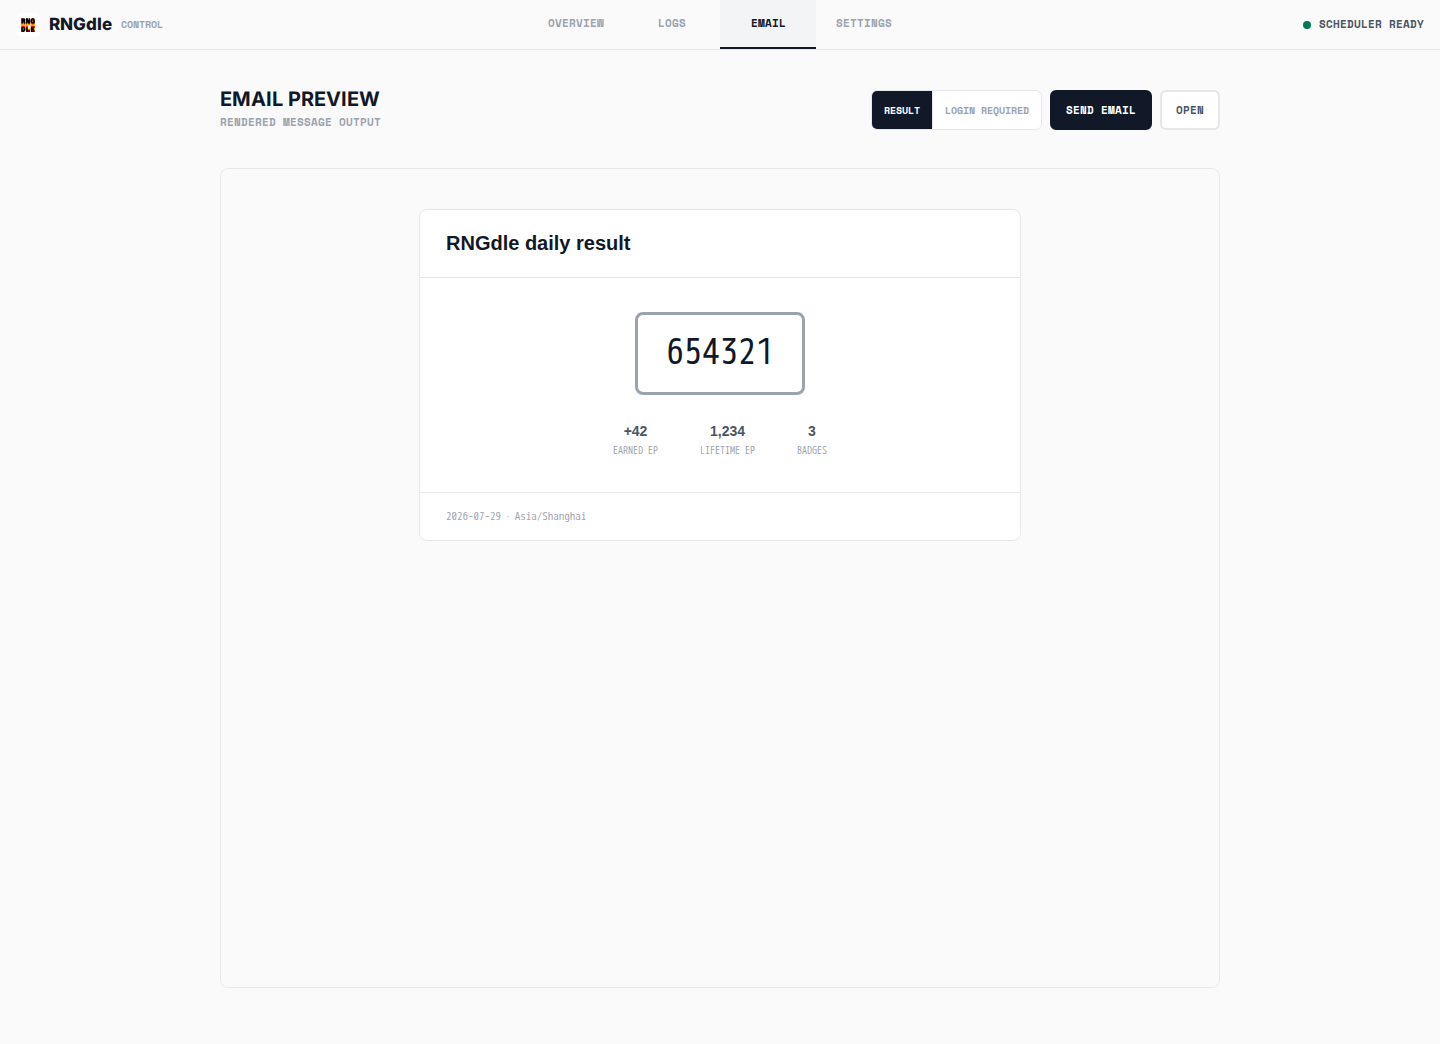
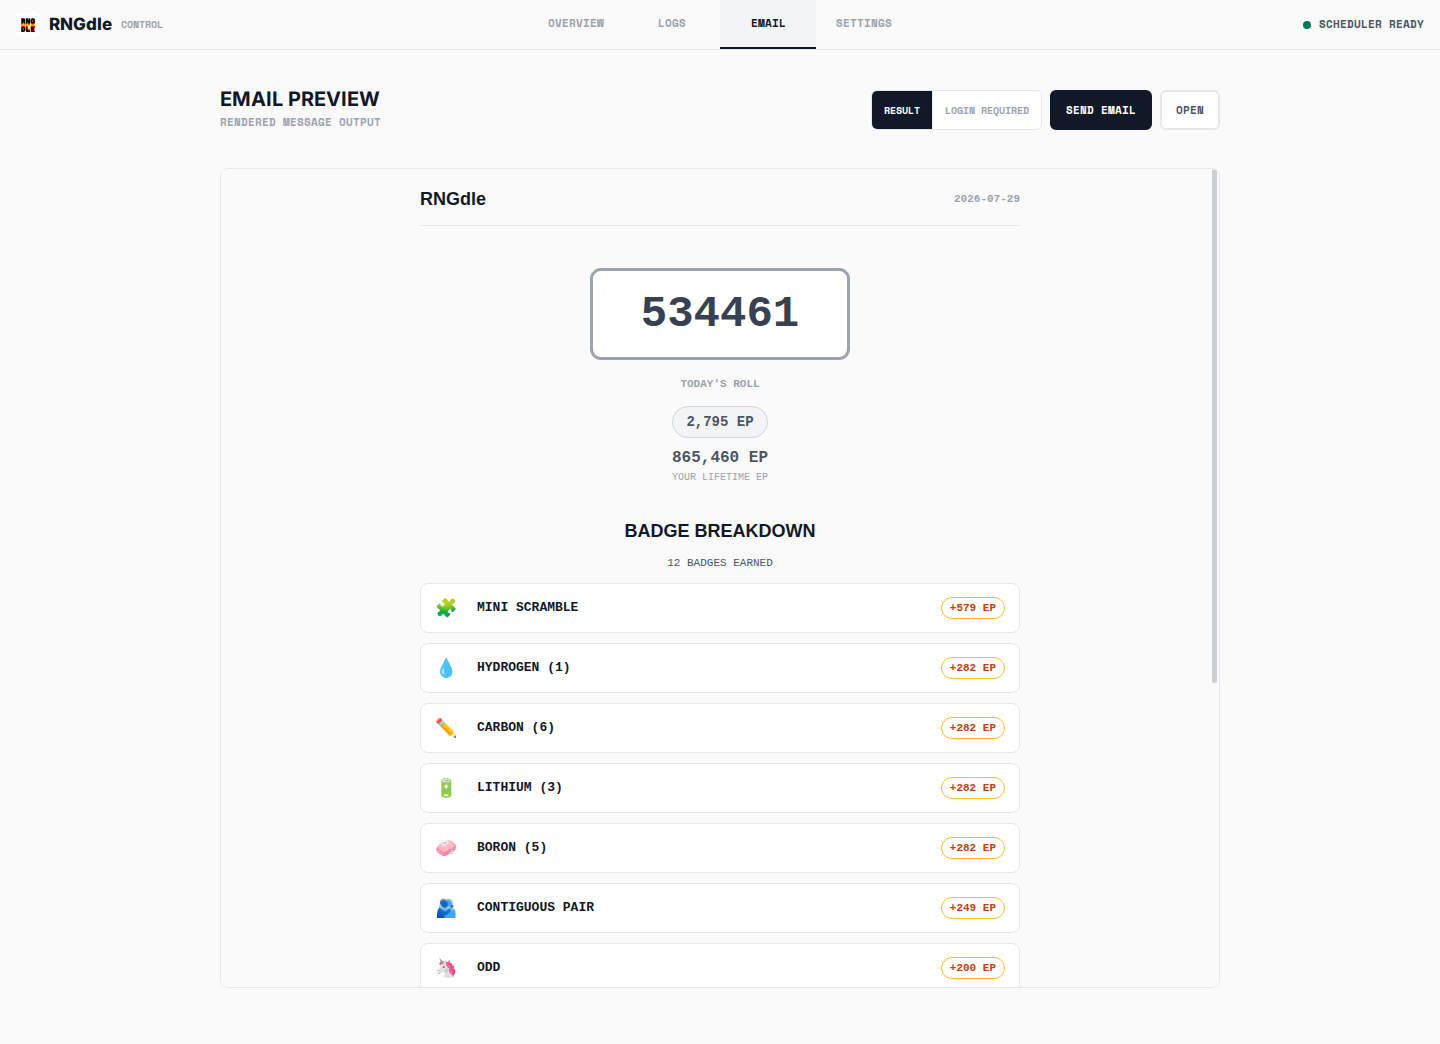
Apply perfect-scrollbar to email preview

diff --git a/src/control-page.js b/src/control-page.js
@@ -105,7 +105,8 @@ export function renderControlPage(baseUrl) {
     .email-heading { align-items:flex-end; }
     .email-actions { display:flex; align-items:center; justify-content:flex-end; flex-wrap:wrap; gap:8px; }
     .email-feedback { margin:0 0 10px; text-align:right; }
-    .preview-frame { display:block; width:100%; height:820px; border:1px solid var(--outline); border-radius:8px; background:#fafafa; }
+    .preview-scroll { contain:paint; position:relative; height:820px; border:1px solid var(--outline); border-radius:8px; background:#fafafa; overflow:auto; }
+    .preview-frame { display:block; width:100%; min-height:100%; height:100%; border:0; background:#fafafa; }
     .settings-form { border-top:1px solid var(--outline); }
     .settings-group { display:grid; grid-template-columns:190px minmax(0,1fr); gap:28px; padding:24px 0; border-bottom:1px solid var(--outline); }
     .settings-heading h2 { margin:0; font-size:15px; line-height:1.35; text-transform:uppercase; }
@@ -116,7 +117,7 @@ export function renderControlPage(baseUrl) {
     .form-field .field-label { margin:0 0 6px; }
     .settings-actions { display:flex; align-items:center; justify-content:flex-end; gap:14px; padding-top:20px; }
     .secret-state { color:var(--success); }
-    .main-scroll.ps,.log-panel.ps { overflow:hidden !important; }
+    .main-scroll.ps,.log-panel.ps,.preview-scroll.ps { overflow:hidden !important; }
     .ps--active-y > .ps__rail-y { width:10px; opacity:.5; background:transparent; z-index:20; }
     .ps--active-x > .ps__rail-x { height:10px; opacity:.5; background:transparent; z-index:20; }
     .ps .ps__rail-y:hover,.ps .ps__rail-y:focus,.ps .ps__rail-y.ps--clicking,.ps .ps__rail-x:hover,.ps .ps__rail-x:focus,.ps .ps__rail-x.ps--clicking { opacity:1; background:var(--raised); }
@@ -124,8 +125,8 @@ export function renderControlPage(baseUrl) {
     .ps__thumb-x { bottom:2px; height:5px; border-radius:4px; background:var(--strong); }
     .ps__rail-y:hover > .ps__thumb-y,.ps__rail-y:focus > .ps__thumb-y,.ps__rail-y.ps--clicking .ps__thumb-y { width:5px; background:var(--prose-2); }
     .ps__rail-x:hover > .ps__thumb-x,.ps__rail-x:focus > .ps__thumb-x,.ps__rail-x.ps--clicking .ps__thumb-x { height:5px; background:var(--prose-2); }
-    @media (max-width:760px) { .topbar { grid-template-columns:minmax(0,1fr) auto; gap:0; padding:0; } .brand { grid-column:1; grid-row:1; min-height:49px; padding:7px 12px; } .header-state { grid-column:2; grid-row:1; min-height:49px; padding:7px 12px; } .tabs { grid-column:1/-1; grid-row:2; width:100%; border-top:1px solid var(--outline); overflow-x:auto; } .tab { flex:1 0 78px; min-width:78px; min-height:43px; padding:10px 8px; } main { padding:28px 16px 44px; } .overview-grid { grid-template-columns:1fr; } .settings-group { grid-template-columns:1fr; gap:14px; } .log-row { grid-template-columns:1fr auto; gap:4px 10px; } .log-message,.log-fields { grid-column:1/-1; } .log-panel { height:460px; } .email-heading { align-items:stretch; flex-direction:column; } .email-actions { justify-content:flex-start; } .email-feedback { text-align:left; } .preview-frame { height:720px; } }
-    @media (max-width:520px) { .brand-context { display:none; } .header-state { max-width:100%; } main { padding:24px 12px 36px; } .status-hero { padding-top:4px; } .status-frame { min-height:82px; } .status-copy { font-size:21px; } .stats { grid-template-columns:repeat(2,minmax(0,1fr)); } .stat:nth-child(3) { border-left:0; } .stat:nth-child(n+3) { border-top:1px solid var(--outline); } .form-grid { grid-template-columns:1fr; } .form-field.full { grid-column:auto; } .settings-actions { align-items:stretch; flex-direction:column; } .settings-actions .button { width:100%; } .toolbar { align-items:stretch; flex-direction:column; } .toolbar-group { justify-content:space-between; } .email-actions .segmented { width:100%; } .email-actions .segment { flex:1; } .email-actions .button { flex:1; } .preview-frame { height:660px; } }
+    @media (max-width:760px) { .topbar { grid-template-columns:minmax(0,1fr) auto; gap:0; padding:0; } .brand { grid-column:1; grid-row:1; min-height:49px; padding:7px 12px; } .header-state { grid-column:2; grid-row:1; min-height:49px; padding:7px 12px; } .tabs { grid-column:1/-1; grid-row:2; width:100%; border-top:1px solid var(--outline); overflow-x:auto; } .tab { flex:1 0 78px; min-width:78px; min-height:43px; padding:10px 8px; } main { padding:28px 16px 44px; } .overview-grid { grid-template-columns:1fr; } .settings-group { grid-template-columns:1fr; gap:14px; } .log-row { grid-template-columns:1fr auto; gap:4px 10px; } .log-message,.log-fields { grid-column:1/-1; } .log-panel { height:460px; } .email-heading { align-items:stretch; flex-direction:column; } .email-actions { justify-content:flex-start; } .email-feedback { text-align:left; } .preview-scroll { height:720px; } }
+    @media (max-width:520px) { .brand-context { display:none; } .header-state { max-width:100%; } main { padding:24px 12px 36px; } .status-hero { padding-top:4px; } .status-frame { min-height:82px; } .status-copy { font-size:21px; } .stats { grid-template-columns:repeat(2,minmax(0,1fr)); } .stat:nth-child(3) { border-left:0; } .stat:nth-child(n+3) { border-top:1px solid var(--outline); } .form-grid { grid-template-columns:1fr; } .form-field.full { grid-column:auto; } .settings-actions { align-items:stretch; flex-direction:column; } .settings-actions .button { width:100%; } .toolbar { align-items:stretch; flex-direction:column; } .toolbar-group { justify-content:space-between; } .email-actions .segmented { width:100%; } .email-actions .segment { flex:1; } .email-actions .button { flex:1; } .preview-scroll { height:660px; } }
   </style>
 </head>
 <body>
@@ -209,7 +210,9 @@ export function renderControlPage(baseUrl) {
         <div class="email-actions"><div class="segmented" role="group" aria-label="Email type"><button class="segment active" type="button" data-email-type="result">Result</button><button class="segment" type="button" data-email-type="authentication">Login required</button></div><button id="email-send" class="button" type="button">Send email</button><a id="preview-open" class="button quiet" href="/preview/email?type=result" target="_blank">Open</a></div>
       </div>
       <div id="email-message" class="feedback email-feedback" role="status"></div>
-      <iframe id="email-frame" class="preview-frame" title="Email preview" src="/preview/email?type=result"></iframe>
+      <div id="preview-scroll" class="preview-scroll" tabindex="0" role="region" aria-label="Email preview">
+        <iframe id="email-frame" class="preview-frame" title="Email preview" src="/preview/email?type=result" scrolling="no"></iframe>
+      </div>
     </section>
 
     <section id="view-settings" class="view" role="tabpanel" hidden>
@@ -258,10 +261,12 @@ export function renderControlPage(baseUrl) {
       : { update() {} };
     const mainScrollbar = createScrollbar(byId('main-scroll'), { suppressScrollX:true, wheelPropagation:false });
     const logScrollbar = createScrollbar(byId('log-panel'), { suppressScrollX:true, wheelPropagation:false });
+    const emailScrollbar = createScrollbar(byId('preview-scroll'), { suppressScrollX:true, wheelPropagation:false });
     let activeView = 'overview';
     let selectedEmailType = 'result';
     let mailRecipients = [];
     let settingsLoaded = false;
+    let emailPreviewDocument;
 
     async function request(url, options) {
       const response = await fetch(url, { cache:'no-store', ...options });
@@ -279,6 +284,7 @@ export function renderControlPage(baseUrl) {
       document.querySelectorAll('.view').forEach((view) => { view.hidden = view.id !== 'view-' + name; });
       document.querySelectorAll('.tab').forEach((tab) => { const selected = tab.dataset.view === name; tab.classList.toggle('active', selected); tab.setAttribute('aria-selected', String(selected)); });
       if (name === 'logs') loadLogs();
+      if (name === 'email') requestAnimationFrame(prepareEmailPreview);
       if (name === 'settings' && !settingsLoaded) loadSettings();
       byId('main-scroll').scrollTop=0;
       requestAnimationFrame(()=>mainScrollbar.update());
@@ -342,6 +348,33 @@ export function renderControlPage(baseUrl) {
       } catch (error) { panel.textContent=error.message; }
     }
 
+    function scrollEmailPreview(delta) {
+      const panel=byId('preview-scroll'); const before=panel.scrollTop;
+      panel.scrollTop=Math.max(0,Math.min(panel.scrollHeight-panel.clientHeight,panel.scrollTop+delta));
+      return panel.scrollTop!==before;
+    }
+
+    function prepareEmailPreview() {
+      const panel=byId('preview-scroll'); const frame=byId('email-frame');
+      let previewDocument;
+      try { previewDocument=frame.contentDocument; } catch { emailScrollbar.update(); return; }
+      if (!previewDocument?.documentElement || !panel.clientHeight) { emailScrollbar.update(); return; }
+      if (previewDocument!==emailPreviewDocument) {
+        emailPreviewDocument=previewDocument;
+        previewDocument.addEventListener('wheel',(event)=>{ if(scrollEmailPreview(event.deltaY)) event.preventDefault(); },{passive:false});
+        previewDocument.addEventListener('keydown',(event)=>{ let delta=0; if(event.key==='ArrowDown') delta=40; else if(event.key==='ArrowUp') delta=-40; else if(event.key==='PageDown'||event.key===' ') delta=panel.clientHeight*.85*(event.shiftKey?-1:1); else if(event.key==='PageUp') delta=-panel.clientHeight*.85; else if(event.key==='Home') delta=-panel.scrollHeight; else if(event.key==='End') delta=panel.scrollHeight; if(delta&&scrollEmailPreview(delta)) event.preventDefault(); });
+        let touchY=null;
+        previewDocument.addEventListener('touchstart',(event)=>{ touchY=event.touches.length===1?event.touches[0].clientY:null; },{passive:true});
+        previewDocument.addEventListener('touchmove',(event)=>{ if(touchY===null||event.touches.length!==1) return; const nextY=event.touches[0].clientY; if(scrollEmailPreview(touchY-nextY)) event.preventDefault(); touchY=nextY; },{passive:false});
+      }
+      frame.style.height=panel.clientHeight+'px';
+      previewDocument.documentElement.style.setProperty('overflow','hidden','important');
+      if (previewDocument.body) previewDocument.body.style.setProperty('overflow','hidden','important');
+      const contentHeight=Math.max(previewDocument.documentElement.scrollHeight,previewDocument.body?.scrollHeight??0);
+      frame.style.height=Math.max(panel.clientHeight,contentHeight)+'px';
+      emailScrollbar.update();
+    }
+
     function setInput(id, value) { byId(id).value = value ?? ''; }
     async function loadSettings() {
       try {
@@ -357,10 +390,11 @@ export function renderControlPage(baseUrl) {
     document.querySelectorAll('.tab').forEach((tab) => tab.addEventListener('click',()=>showView(tab.dataset.view)));
     byId('auth-form').addEventListener('submit',async(event)=>{ event.preventDefault(); const message=byId('auth-message'); message.className='feedback'; message.textContent=''; byId('auth-submit').disabled=true; try { const data=await request('/api/auth-link',{method:'POST',headers:{'Content-Type':'application/json'},body:JSON.stringify({link:byId('auth-link').value})}); message.textContent=data.message; byId('auth-link').value=''; } catch(error) { message.className='feedback error'; message.textContent=error.message; } await refreshOverview(); });
     byId('log-refresh').addEventListener('click',loadLogs); byId('log-level').addEventListener('change',loadLogs);
-    document.querySelectorAll('[data-email-type]').forEach((button)=>button.addEventListener('click',()=>{ selectedEmailType=button.dataset.emailType; document.querySelectorAll('[data-email-type]').forEach((item)=>item.classList.toggle('active',item===button)); const url='/preview/email?type='+encodeURIComponent(selectedEmailType)+'&t='+Date.now(); byId('email-frame').src=url; byId('preview-open').href=url; byId('email-message').textContent=''; }));
+    byId('email-frame').addEventListener('load',()=>requestAnimationFrame(prepareEmailPreview));
+    document.querySelectorAll('[data-email-type]').forEach((button)=>button.addEventListener('click',()=>{ selectedEmailType=button.dataset.emailType; document.querySelectorAll('[data-email-type]').forEach((item)=>item.classList.toggle('active',item===button)); const url='/preview/email?type='+encodeURIComponent(selectedEmailType)+'&t='+Date.now(); byId('preview-scroll').scrollTop=0; byId('email-frame').src=url; byId('preview-open').href=url; byId('email-message').textContent=''; }));
     byId('email-send').addEventListener('click',async()=>{ const recipients=mailRecipients.length ? mailRecipients.join(', ') : 'the configured recipients'; const label=selectedEmailType==='result' ? 'result' : 'login required'; if(!window.confirm('Send the '+label+' email to '+recipients+'?')) return; const button=byId('email-send'); const message=byId('email-message'); button.disabled=true; button.textContent='Sending'; message.className='feedback email-feedback'; message.textContent=''; try { const data=await request('/api/email/send',{method:'POST',headers:{'Content-Type':'application/json'},body:JSON.stringify({type:selectedEmailType})}); message.textContent=data.message; } catch(error) { message.className='feedback email-feedback error'; message.textContent=error.message; } finally { button.disabled=false; button.textContent='Send email'; } });
     byId('settings-form').addEventListener('submit',async(event)=>{ event.preventDefault(); const message=byId('settings-message'); const save=byId('settings-save'); message.className='feedback'; message.textContent=''; save.disabled=true; const payload={timezone:byId('timezone').value,scheduleTime:byId('schedule-time').value,retryMinutes:Number(byId('retry-minutes').value),pollSeconds:Number(byId('poll-seconds').value),browserTimeoutMs:Number(byId('browser-timeout').value),controlPublicUrl:byId('control-url').value,rngdleEmail:byId('rngdle-email').value,smtpUsername:byId('smtp-username').value,smtpFrom:byId('smtp-from').value,mailSubjectPrefix:byId('subject-prefix').value,mailTo:byId('mail-to').value,smtpHost:byId('smtp-host').value,smtpPort:Number(byId('smtp-port').value),smtpSecure:byId('smtp-secure').checked,smtpRequireTls:byId('smtp-require-tls').checked,smtpAppPassword:byId('smtp-password').value}; try { const data=await request('/api/settings',{method:'PUT',headers:{'Content-Type':'application/json'},body:JSON.stringify(payload)}); message.textContent=data.message; settingsLoaded=false; await loadSettings(); await refreshOverview(); } catch(error) { message.className='feedback error'; message.textContent=error.message; } finally { save.disabled=false; } });
-    window.addEventListener('resize',()=>{ mainScrollbar.update(); logScrollbar.update(); });
+    window.addEventListener('resize',()=>{ mainScrollbar.update(); logScrollbar.update(); prepareEmailPreview(); });
     setInterval(()=>{ refreshOverview(); if(activeView==='logs'&&byId('log-auto').checked) loadLogs(); },3000);
     refreshOverview();
   </script>

diff --git a/test/control.test.js b/test/control.test.js
@@ -74,7 +74,9 @@ test("control APIs expose operations without exposing secrets", async (context) 
   assert.match(page, /new window\.PerfectScrollbar\(element, options\)/);
   assert.match(page, /: \{ update\(\) \{\} \}/);
   assert.match(page, /\.log-panel \{ contain:paint;/);
-  assert.match(page, /\.main-scroll\.ps,\.log-panel\.ps \{ overflow:hidden !important; \}/);
+  assert.match(page, /id="preview-scroll" class="preview-scroll"/);
+  assert.match(page, /const emailScrollbar = createScrollbar\(byId\('preview-scroll'\)/);
+  assert.match(page, /\.main-scroll\.ps,\.log-panel\.ps,\.preview-scroll\.ps \{ overflow:hidden !important; \}/);
   assert.match(page, /<header class="topbar">[\s\S]*<nav class="tabs"[\s\S]*<\/header>/);
   assert.doesNotMatch(page, /tabs-wrap/);
   const font = await fetch(`${baseUrl}/assets/fonts/space-mono-700-latin.woff2`);

diff --git a/README.md b/README.md
@@ -162,7 +162,7 @@ Control 的 Settings 页面会将修改写入 `/app/data/settings.json`，其优
 
 Control 将品牌、四视图导航和 scheduler 状态集中在页面 header 中。移动端导航保留在 header 第二行，四个入口等宽排列。
 
-页面主区域与 Logs 面板使用本地打包的 `perfect-scrollbar`，内容刷新、视图切换和窗口缩放后会自动同步滚动范围；脚本不可用时回退到原生滚动。
+页面主区域、Logs 面板与 Email Preview 使用本地打包的 `perfect-scrollbar`，内容刷新、视图切换和窗口缩放后会自动同步滚动范围；脚本不可用时回退到原生滚动。
 
 四个视图分别提供：
 
